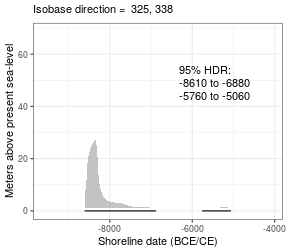
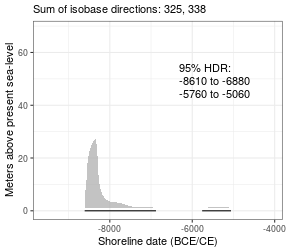
Updated tests. Collapsed elevation and elev_rast argument in shoreline_date() to just elevation. Made it possible to exclude header in shoredate_sumplot().

diff --git a/tests/testthat/_snaps/shoreline_date.md b/tests/testthat/_snaps/shoreline_date.md
@@ -15,3 +15,18 @@
       95% HDR:
       6660 BCE-3180 BCE
 
+# summing multiple isobase directions works
+
+    Code
+      shoreline_date(site = target_point, elevation = 60, isobase_direction = c(327,
+        338), sum_isobase_directions = TRUE)
+    Output
+      ===============
+      Site:  1
+      Elevation:  60 
+      
+      Sum of isobase directions:  327 338 
+      
+      95% HDR:
+      7010 BCE-4880 BCE
+
